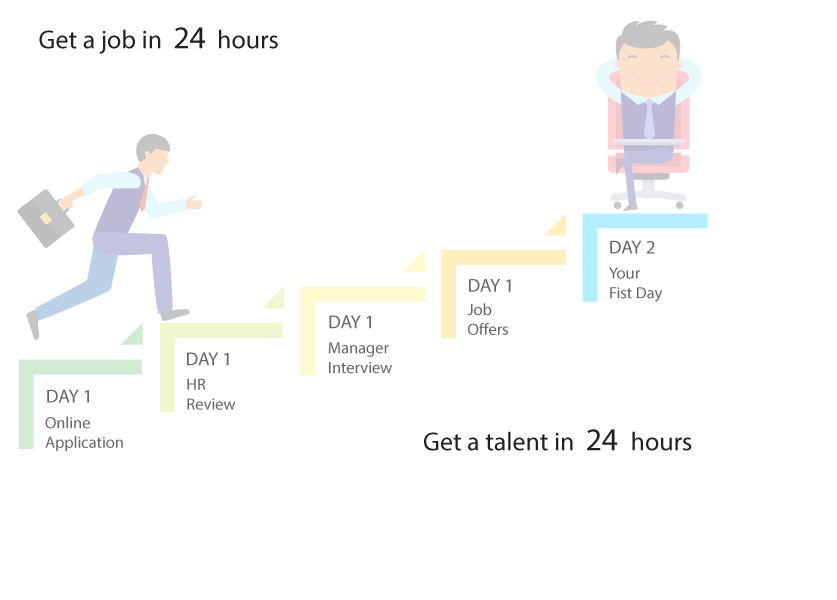
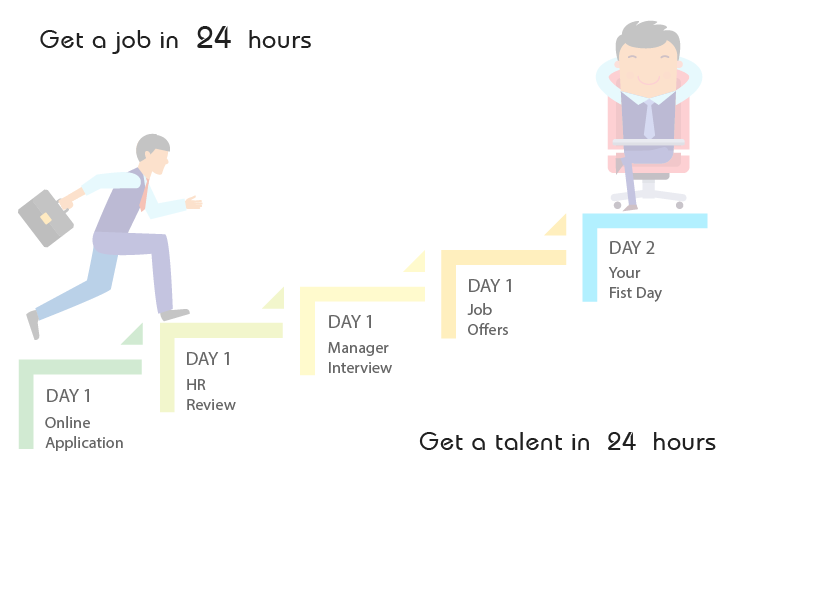
spot view font updated

diff --git a/assets/css/style.css b/assets/css/style.css
@@ -765,7 +765,7 @@ select.form-control:not([size]):not([multiple]) {
         padding-top: 5px!important;
         padding-bottom: 5px!important;
         background:#fff!important;
-        box-shadow: 0 1px 2px #ced4da;
+        /*box-shadow: 0 1px 2px #ced4da;*/
     }
 .interested-status, .rejected-status{
     
